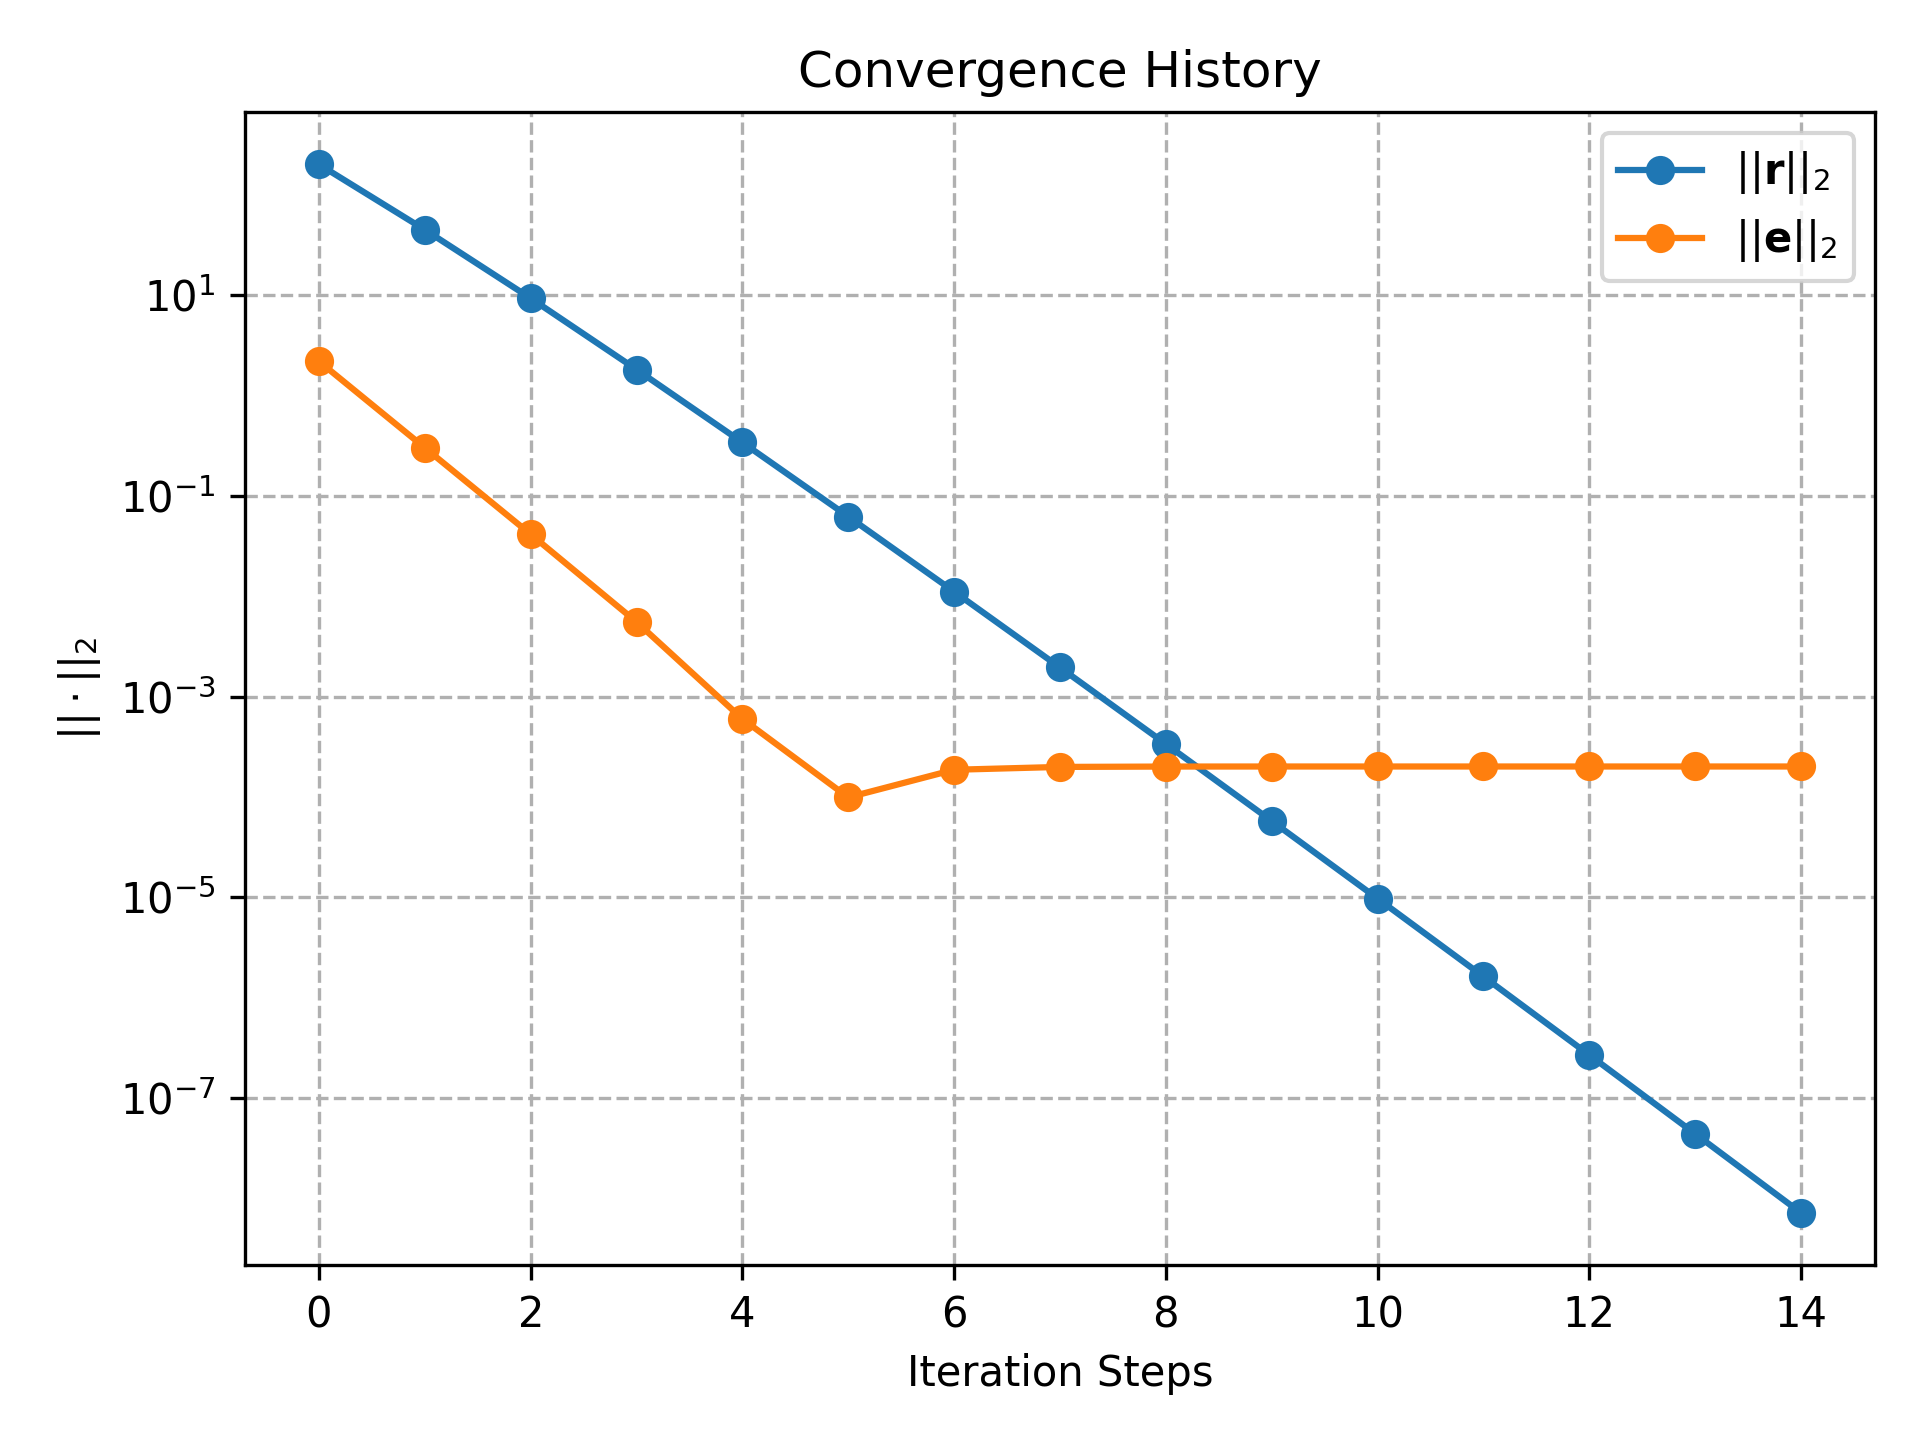
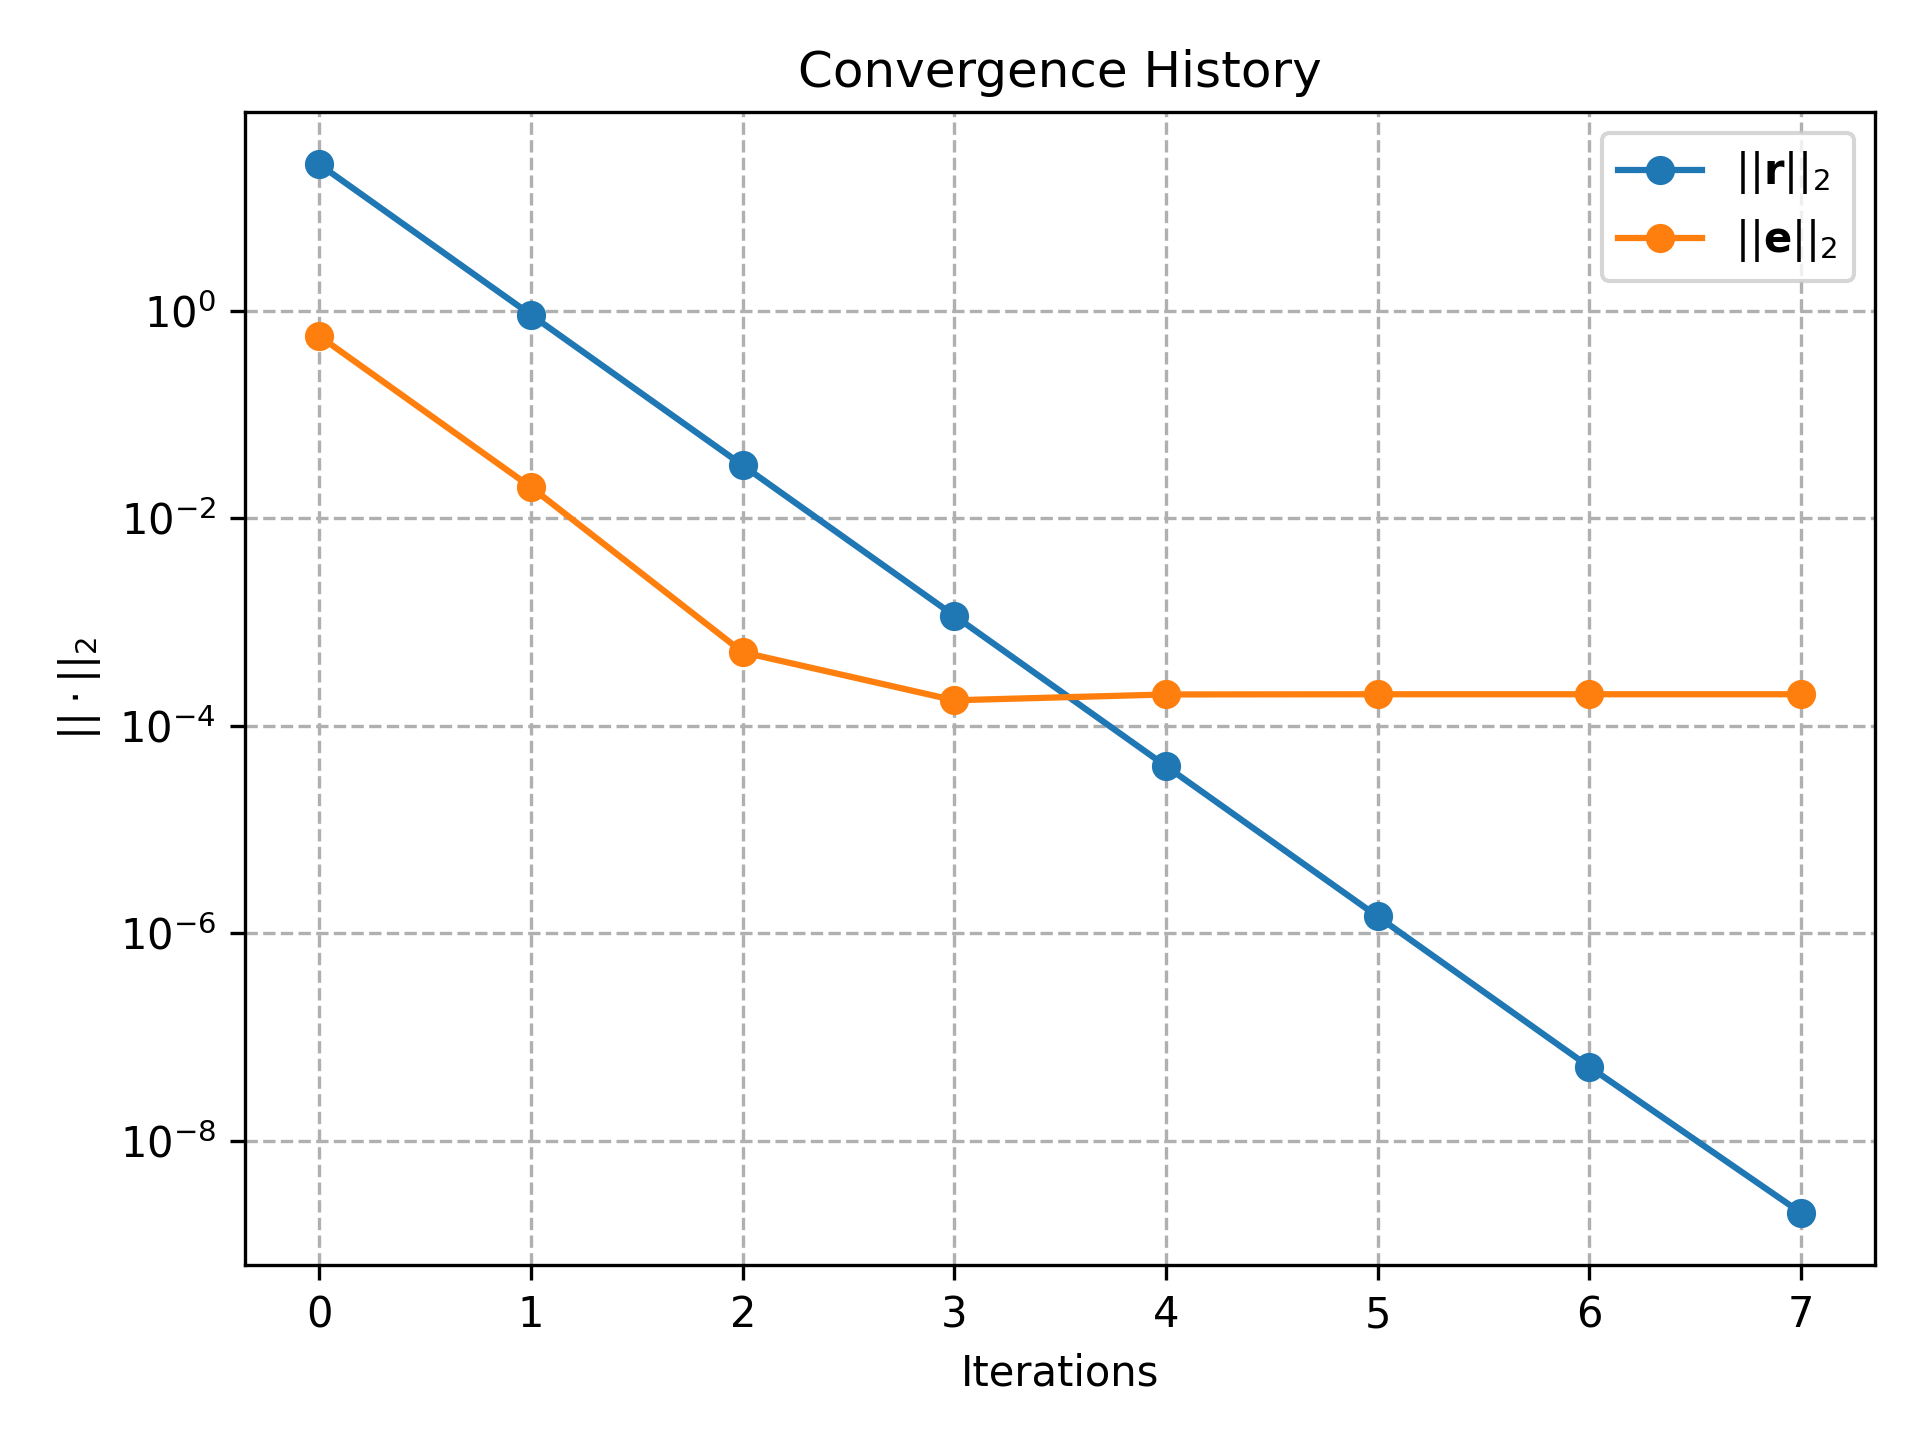
added plot creator for approximate solution

diff --git a/src/main.cpp b/src/main.cpp
@@ -2,6 +2,7 @@
 
 #include "logger.hpp"
 #include "common/io.hpp"
+#include "common/norm.hpp"
 #include "multigrid/cartesian_1d/run.hpp"
 
 
@@ -21,10 +22,8 @@ double zero_boundary(double x) {
     return 0.0;
 }
 
+
 // double f(double x) {
-//     // -u'' = f  =>  u'' + f = 0
-//     // For u(x) = x(1-x), u'' = -2
-//     // So f(x) = 2
 //     return 2.0;
 // }
 
@@ -40,20 +39,24 @@ double zero_boundary(double x) {
 //     return 0.0;
 // }
 
+
 int main() {
-    unsigned int sub_int = 512; // #subintervals -> n + 1 grid points
+    unsigned int sub_int = 64; // #subintervals -> n + 1 grid points
     Domain1D dom{ 0.0, 1.0 };
     BoundaryCond1D bc{ zero_boundary, zero_boundary };
-    SmootherParam smoother_param{ 1, 1 };
+    SmootherParam smoother_param{ 3, 3 };
     double sigma = 0.0;
 
-    unsigned int num_iterations = 1000;
-    double tolerance = 1e-8;
+    unsigned int num_iterations = 100;
+    double tolerance = 1e-10;
 
     auto results = multigrid::cartesian_1d::run(
         f, bc, sigma, dom, sub_int, num_iterations, tolerance, u_guess,
-        smoother_param, multigrid::cartesian_1d::red_black_gauss_seidel, // TODO: put inside another namespace
-        2.0/3.0, multigrid::cartesian_1d::V // TODO: put inside another namespace
+        smoother_param,
+        multigrid::cartesian_1d::smoother::red_black_gauss_seidel, // TODO : use enums so that python plot can use this to plot
+        2.0/3.0,
+        multigrid::cartesian_1d::cycle::V, // TODO : use enums so that python plot can use this to plot
+        L2 // TODO : use enums so that python plot can use this to plot
     );
 
     if (!results) {
@@ -61,8 +64,9 @@ int main() {
         return 1;
     }
 
+    // TODO : move inside run() and make u_exact optional with default null
     save_solutions_csv("../data/solutions.csv", results->v);
-    save_convergence_history_csv("../data/convergence_history.csv", results->residual_norm, results->v, dom, sub_int, u_exact);
+    save_convergence_history_csv("../data/convergence_history.csv", results->residual_norm, results->v, dom, sub_int, u_exact, L2);
 
     return 0;
 }

diff --git a/src/multigrid/cartesian_1d/run.cpp b/src/multigrid/cartesian_1d/run.cpp
@@ -13,7 +13,8 @@ namespace multigrid::cartesian_1d {
         const SmootherParam& smoother_param,
         const Smoother& smoother,
         double omega,
-        const Cycle& cycle
+        const Cycle& cycle,
+        const Norm& norm
     )
     {
         if (sub_int == 0) {
@@ -26,10 +27,10 @@ namespace multigrid::cartesian_1d {
             return {};
         }
 
+        save_params_yaml("../data/params.yaml", dom, sub_int);
+
         MG1DResults results;
-
         std::vector<Grid> grids = init_grids(rhs_f, u_guess, dom, bc, sub_int);
-
         double h = (dom.x_max - dom.x_min) / sub_int;
 
         logger::info("Running multigrid...");
@@ -38,12 +39,11 @@ namespace multigrid::cartesian_1d {
             cycle(grids, 0, h, sigma, omega, smoother, smoother_param);
 
             auto r = compute_residual(grids[0].v, grids[0].f, h, sigma);
-            double residual_norm = L2(r);
+            double residual_norm = norm(r);
 
             results.v.push_back(grids[0].v);
             results.residual_norm.push_back(residual_norm);
 
-            logger::debug("L2(r) = {} at iter = {}", residual_norm, iter);
             if (residual_norm < tolerance) {
                 auto end = std::chrono::high_resolution_clock::now();
                 std::chrono::duration<double> elapsed = end - start;

diff --git a/src/common/io.hpp b/src/common/io.hpp
@@ -8,6 +8,20 @@
 #include "domain.hpp"
 #include "norm.hpp"
 
+inline void save_params_yaml(
+    const std::string& filename,
+    const Domain1D& dom,
+    unsigned int sub_int
+)
+{
+    std::ofstream file(filename);
+    file << "domain:\n";
+    file << "  x_min: " << dom.x_min << "\n";
+    file << "  x_max: " << dom.x_max << "\n";
+    file << "grid:\n";
+    file << "  sub_intervals: " << sub_int << "\n";
+}
+
 inline void save_solutions_csv(
     const std::string& filename,
     const std::vector<std::vector<double>>& v
@@ -31,7 +45,8 @@ inline void save_convergence_history_csv(
     const std::vector<std::vector<double>>& v,
     const Domain1D& dom,
     unsigned int sub_int,
-    const Func1D& u_exact
+    const Func1D& u_exact,
+    const Norm& norm = L2
 )
 {
     std::ofstream file(filename);
@@ -46,7 +61,7 @@ inline void save_convergence_history_csv(
             error[i] = v[k][i] - u_exact(x);
         }
 
-        double error_norm = L2(error);
+        double error_norm = norm(error);
 
         file << k << ";" << residual_norm[k] << ";" << error_norm << "\n";
     }

diff --git a/plotting/main.py b/plotting/main.py
@@ -1,17 +1,32 @@
+import yaml
 import pandas as pd
-
 import numpy as np
 
 from plot_convergence_history import plot_convergence_history
+from plot_solution import plot_solution
 
 CONV_HISTORY_PATH = "../data/convergence_history.csv"
 SOLUTIONS_PATH = "../data/solutions.csv"
 
+def u(x):
+    return np.sin(2 * np.pi * x)
+
 def main() -> None:
+    with open("../data/params.yaml", 'r') as f:
+        params = yaml.safe_load(f)
+
     df_conv_history = pd.read_csv(CONV_HISTORY_PATH, sep=';')
     df_solutions = pd.read_csv(SOLUTIONS_PATH, sep=';')
-    # v_list = [list(map(float, v_str.split(','))) for v_str in df_solutions['v']]
+    v_list = [list(map(float, v_str.split(','))) for v_str in df_solutions['v']]
 
+    x_min = params['domain']['x_min']
+    x_max = params['domain']['x_max']
+    sub_int = params['grid']['sub_intervals']
+
+    x = np.linspace(x_min, x_max, num=sub_int+1)
+    df_solution = pd.DataFrame({'x': x, 'v': v_list[0]})
+
+    plot_solution(df_solution, u)
     plot_convergence_history(df_conv_history)
 
 if __name__ == "__main__":

diff --git a/plotting/plot_solution.py b/plotting/plot_solution.py
@@ -1,0 +1,31 @@
+import pandas as pd
+import matplotlib.pyplot as plt
+
+
+def plot_solution(df: pd.DataFrame, u=None) -> None:
+    if u is None:
+        print("Error: Function pointer u is None")
+        return
+
+    plt.figure()
+    exact_values = [u(x) for x in df['x']]
+    plt.plot(
+        df['x'], exact_values,
+        'b-',
+        label='exact')
+    plt.plot(
+        df['x'], df['v'],
+        marker='o',
+        color='red',
+        markersize=3,
+        label='approx'
+    )
+
+    plt.xlabel(r'$x$')
+    plt.ylabel(r'$f(x)$')
+    plt.title('Exact vs Approximate Solution')
+    plt.grid(True, which='both', ls='--')
+    plt.legend()
+    plt.tight_layout()
+    plt.savefig("plots/solution.png", dpi=300)
+    plt.show()

diff --git a/src/multigrid/cartesian_1d/run.hpp b/src/multigrid/cartesian_1d/run.hpp
@@ -33,8 +33,9 @@ namespace multigrid::cartesian_1d {
         double tolerance = 1e-6,
         const Func1D& u_guess = [](double) { return 0.0; },
         const SmootherParam& smoother_param = SmootherParam(),
-        const Smoother& smoother = jacobi,
+        const Smoother& smoother = smoother::jacobi,
         double omega = 1.0,
-        const Cycle& cycle = V
+        const Cycle& cycle = cycle::V,
+        const Norm& norm = L2
     );
 }

diff --git a/src/common/type_alias.hpp b/src/common/type_alias.hpp
@@ -10,6 +10,8 @@ using Func1D = std::function<double(double)>;
 using Func2D = std::function<double(double, double)>;
 using Func3D = std::function<double(double, double, double)>;
 
+using Norm = std::function<double(const std::vector<double>&)>;
+
 using Smoother = std::function<void(
     std::vector<double>&,
     const std::vector<double>&,

diff --git a/src/common/norm.hpp b/src/common/norm.hpp
@@ -18,7 +18,7 @@ inline double L2(const std::vector<double>& v) {
 }
 
 inline double Linf(const std::vector<double>& v) {
-    return *std::max_element(v.begin(), v.end(), [](double a, double b) {
+    return std::abs(*std::max_element(v.begin(), v.end(), [](double a, double b) {
         return std::abs(a) < std::abs(b);
-    });
+    }));
 }

diff --git a/plotting/plot_convergence_history.py b/plotting/plot_convergence_history.py
@@ -12,7 +12,7 @@ def plot_convergence_history(df: pd.DataFrame) -> None:
         df['iter'], df['error_norm'],
         marker='o', label=r'$||\mathbf{e}||_2$'
     )
-    plt.xlabel('Iteration Steps')
+    plt.xlabel('Iterations')
     plt.ylabel(r'$||\cdot||_2$')
     plt.yscale('log', base=10)
     plt.title('Convergence History')

diff --git a/src/multigrid/cartesian_1d/cycle.hpp b/src/multigrid/cartesian_1d/cycle.hpp
@@ -5,8 +5,9 @@
 #include "../../logger.hpp"
 #include "../../common/type_alias.hpp"
 #include "../../common/smoother_param.hpp"
+
 #include "operations.hpp"
-namespace multigrid::cartesian_1d {
+namespace multigrid::cartesian_1d::cycle {
     /*
     V(grids, 0, ...)
       └─> V(grids, 1, ...)

diff --git a/tests/test_operations.cpp b/tests/test_operations.cpp
@@ -122,7 +122,7 @@ TEST(multigrid_operations, direct_solve) {
     }
 }
 
-TEST(DirectSolveTest, direct_solve_zero_rhs) {
+TEST(multigrid_operations, direct_solve_zero_rhs) {
     // Test with zero RHS - solution should be zero everywhere
     std::vector<double> f(5, 0.0);
     double h = 0.25;

diff --git a/src/multigrid/cartesian_1d/smoother.hpp b/src/multigrid/cartesian_1d/smoother.hpp
@@ -22,7 +22,7 @@ namespace {
         return (1.0 - omega) * v_old + omega * v_new;
     }
 }
-namespace multigrid::cartesian_1d {
+namespace multigrid::cartesian_1d::smoother {
     void jacobi(
         std::vector<double>& v,
         const std::vector<double>& f,
